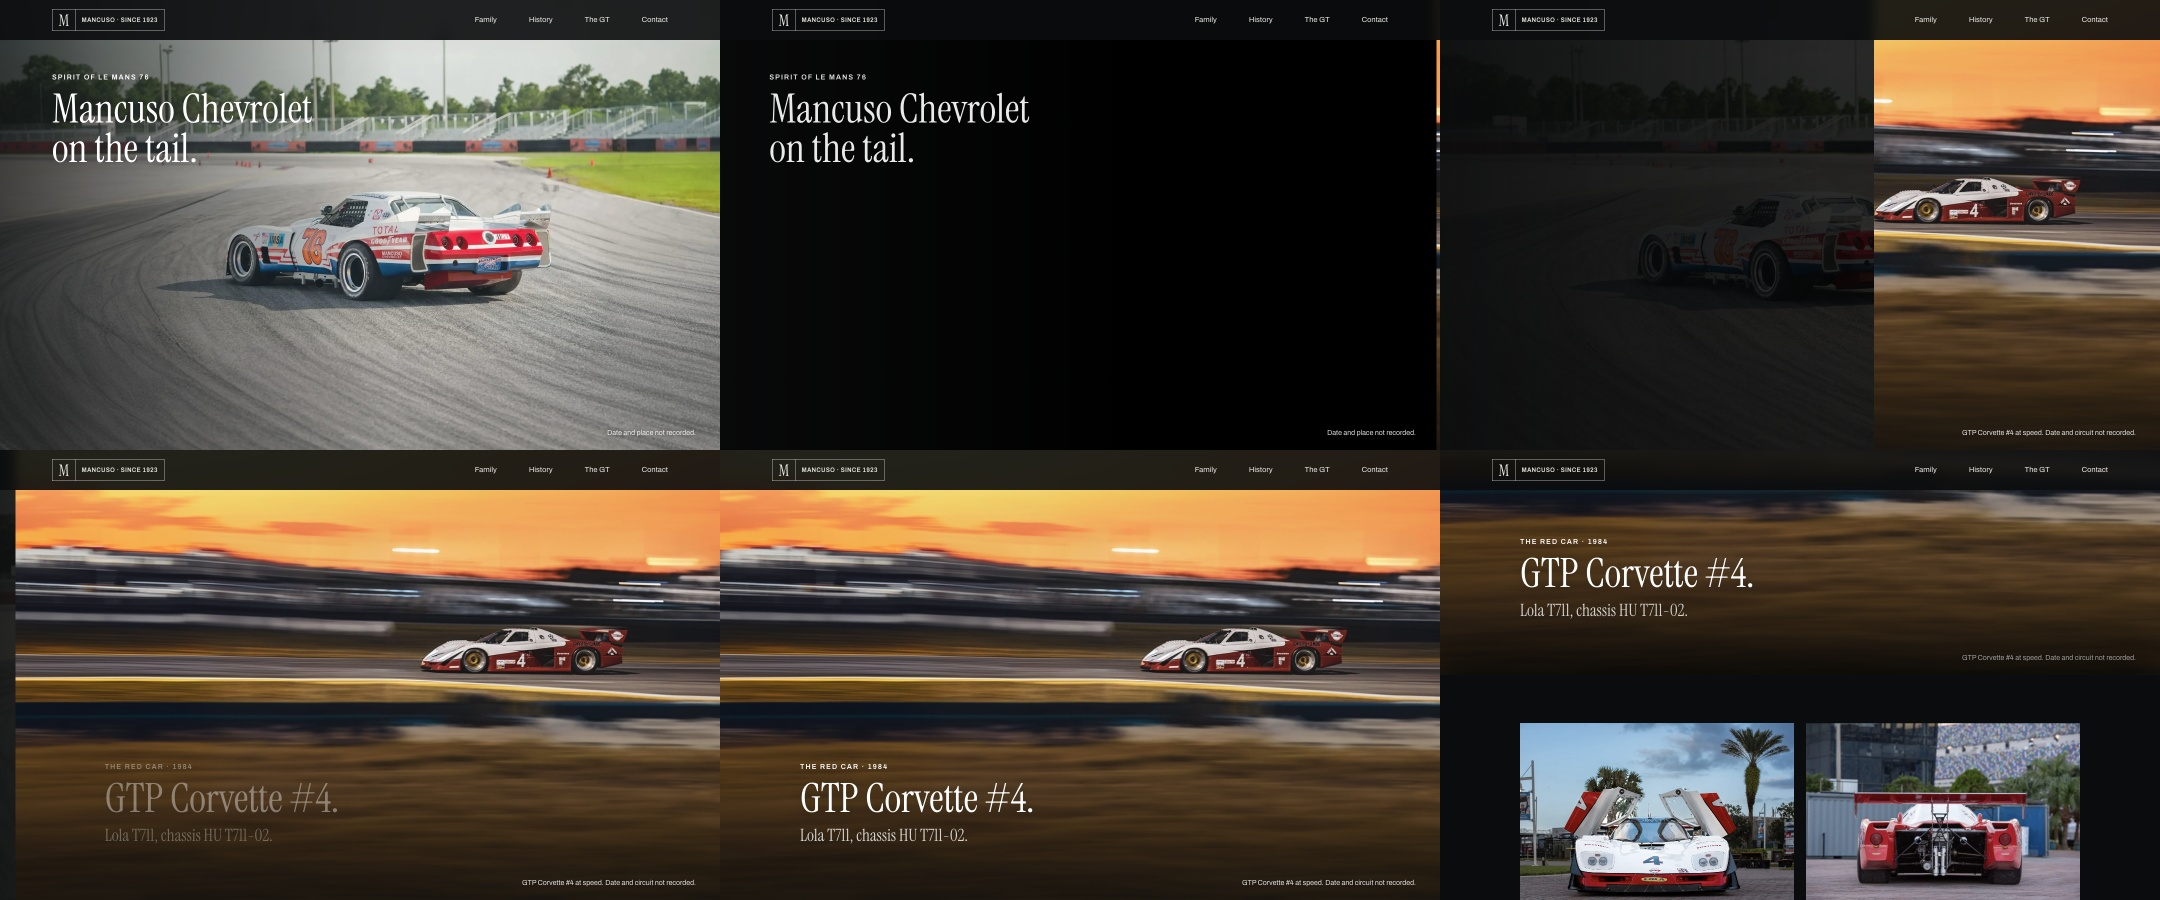
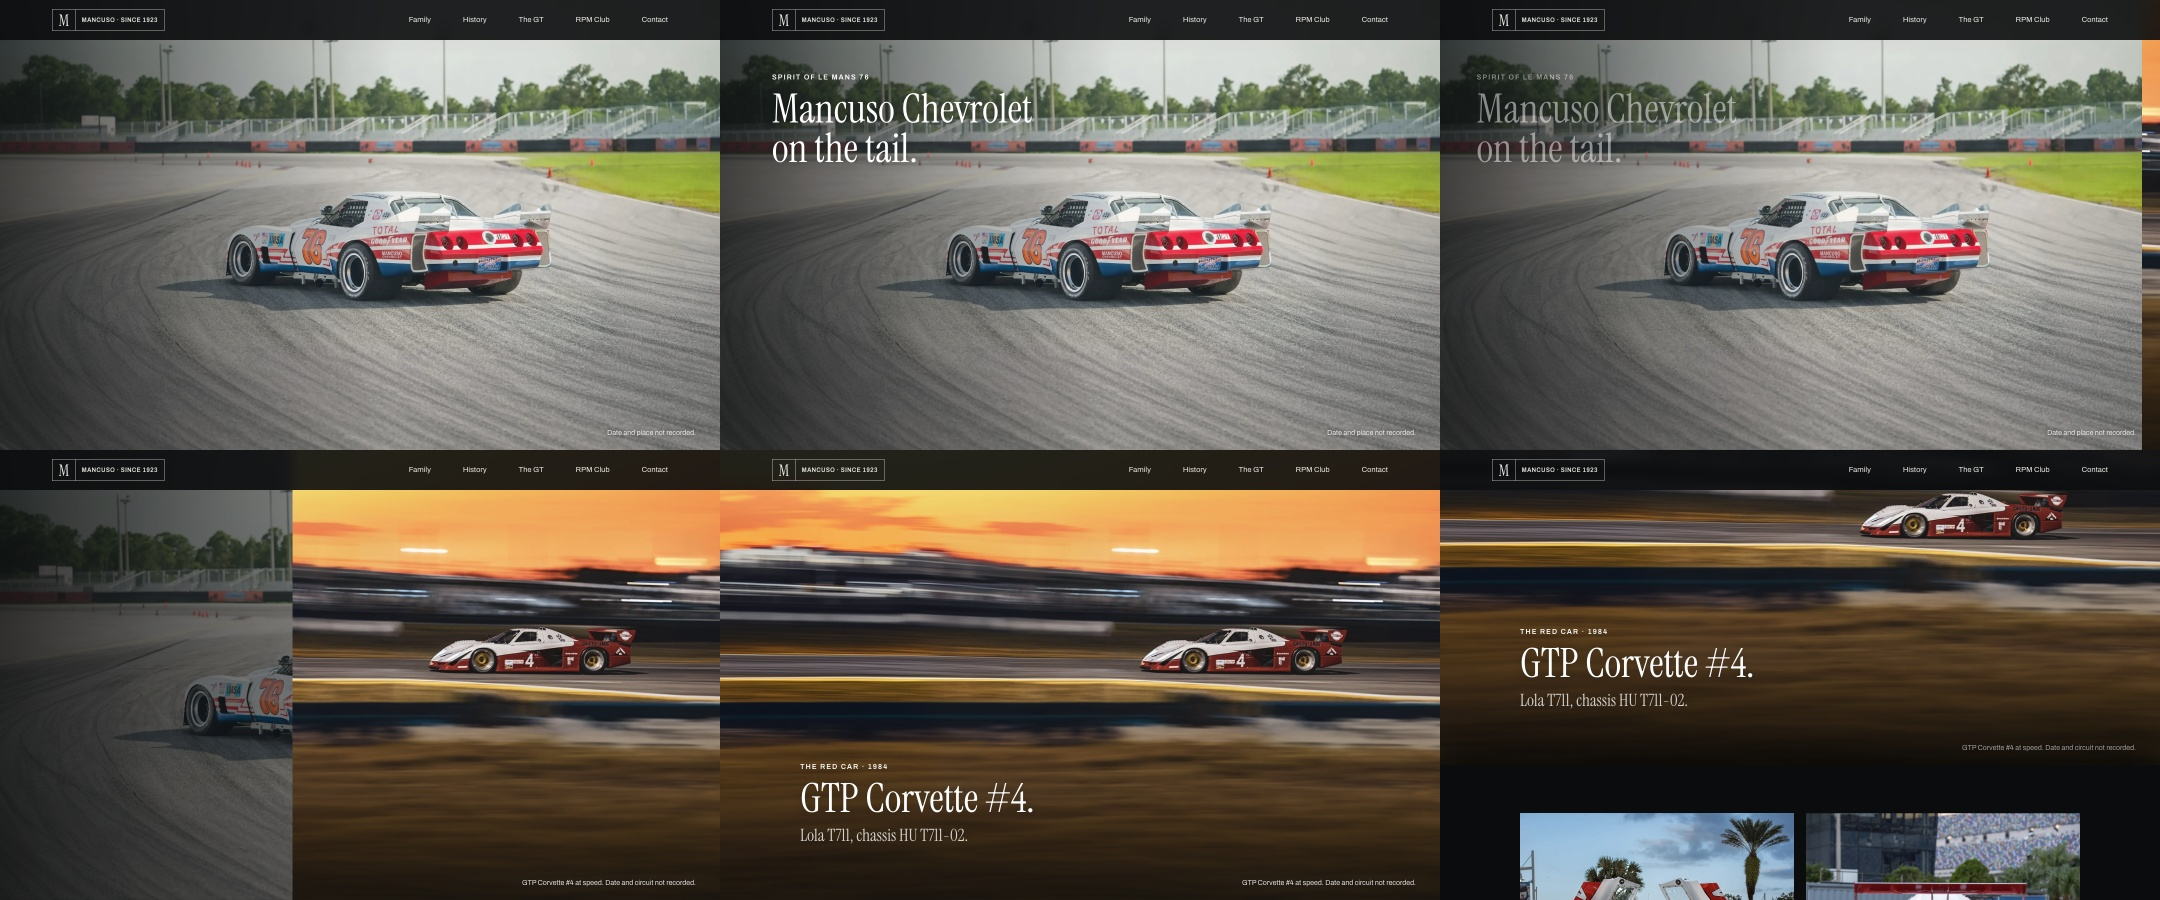
Final sketch: one entry rule for the Spirit and GTP titles; GTP photos and text narrower and centred; pin-stop titles (LFSC, Father and son) leave upward line by line

diff --git a/sketches/final/motion.js b/sketches/final/motion.js
@@ -74,9 +74,9 @@
        then the chapter text rides over it as one solid layer */
     qa('[data-pinstop]').forEach((fig) => {
       const text = q('.bleed__text', fig);
-      gsap.timeline({ scrollTrigger: { trigger: fig, start: 'top top', end: '+=55%', scrub: 0.6, refreshPriority: -1 } })
-        .fromTo(text, { y: 80, autoAlpha: 0 }, { y: 0, autoAlpha: 1, ease: 'power2.out', duration: 0.6 })
-        .to({}, { duration: 0.4 });
+      gsap.timeline({ scrollTrigger: { trigger: fig, start: 'top top', end: '+=60%', scrub: 0.6, refreshPriority: -1 } })
+        .fromTo(text, { y: 80, autoAlpha: 0 }, { y: 0, autoAlpha: 1, ease: 'power2.out', duration: 0.35 }, 0)
+        .to(text.children, { y: -70, autoAlpha: 0, ease: 'power2.in', duration: 0.3, stagger: 0.06 }, 0.55);   /* leaves upward, line by line */
     });
 
     /* the family: one pinned screen. No block slides over another: on each step the current panel's
@@ -123,15 +123,18 @@
     const swap = q('[data-swap]');
     if (swap) {
       const A = q('[data-swap-a]', swap), B = q('[data-swap-b]', swap);
+      /* one rule for both titles: each arrives from the right on its own frame, holds, then the frame changes */
+      const tIn = { x: 0, autoAlpha: 1, duration: 0.2, ease: 'power2.out' };
       gsap.timeline({ defaults: { ease: 'none' },
-        scrollTrigger: { trigger: swap, start: 'top top', end: '+=180%', pin: true, scrub: 0.6, anticipatePin: 1 } })
-        .to({}, { duration: 0.25 })
-        .to(q('.bleed__text', A), { x: -60, autoAlpha: 0, duration: 0.25, ease: 'power2.in' }, 0.25)
-        .fromTo(B, { clipPath: 'inset(0 0 0 100%)' }, { clipPath: 'inset(0 0 0 0%)', duration: 0.6, ease: 'power2.inOut' }, 0.3)
-        .fromTo(q('img', B), { xPercent: 12 }, { xPercent: 0, duration: 0.6, ease: 'power2.out' }, 0.3)
-        .fromTo(q('img', A), { xPercent: 0, filter: 'brightness(1)' }, { xPercent: -10, filter: 'brightness(0.45)', duration: 0.6, ease: 'power2.inOut' }, 0.3)
-        .fromTo(q('.bleed__text', B), { x: 80, autoAlpha: 0 }, { x: 0, autoAlpha: 1, duration: 0.3, ease: 'power2.out' }, 0.75)
-        .to({}, { duration: 0.25 });
+        scrollTrigger: { trigger: swap, start: 'top top', end: '+=200%', pin: true, scrub: 0.6, anticipatePin: 1 } })
+        .fromTo(q('.bleed__text', A), { x: 80, autoAlpha: 0 }, tIn, 0)
+        .to({}, { duration: 0.2 }, 0.2)
+        .to(q('.bleed__text', A), { x: -60, autoAlpha: 0, duration: 0.2, ease: 'power2.in' }, 0.4)
+        .fromTo(B, { clipPath: 'inset(0 0 0 100%)' }, { clipPath: 'inset(0 0 0 0%)', duration: 0.6, ease: 'power2.inOut' }, 0.45)
+        .fromTo(q('img', B), { xPercent: 12 }, { xPercent: 0, duration: 0.6, ease: 'power2.out' }, 0.45)
+        .fromTo(q('img', A), { xPercent: 0, filter: 'brightness(1)' }, { xPercent: -10, filter: 'brightness(0.45)', duration: 0.6, ease: 'power2.inOut' }, 0.45)
+        .fromTo(q('.bleed__text', B), { x: 80, autoAlpha: 0 }, tIn, 0.95)
+        .to({}, { duration: 0.25 }, 1.15);
     }
 
     /* the peak: the page is already blue; the #76 drives in from the right, its number slides the other way */

diff --git a/sketches/final/styles.css b/sketches/final/styles.css
@@ -396,7 +396,7 @@ h2.bleed__title { font-weight: 400; }
 .bleed--dusk::before { content: ""; position: absolute; inset: 0; z-index: 1; background: linear-gradient(0deg, rgba(11,12,13,.8) 0%, rgba(11,12,13,.25) 32%, rgba(11,12,13,0) 50%); }
 .bleed--dusk .bleed__text { left: calc(var(--gutter) + var(--col)); top: auto; bottom: 12vh; }
 .bleed--dusk .bleed__cap { color: rgba(255,255,255,.88); }
-.gtp__pair { display: grid; grid-template-columns: 1fr 1fr; gap: var(--s-5); padding: var(--s-8) calc(var(--gutter) + var(--col)) 0; }
+.gtp__pair { display: grid; grid-template-columns: repeat(2, minmax(0, 460px)); justify-content: center; gap: var(--s-5); padding: var(--s-8) var(--gutter) 0; }
 .gtp__pair img { width: 100%; aspect-ratio: 3 / 2; object-fit: cover; }
 
 .pin-gap { display: none; }
@@ -408,6 +408,11 @@ h2.bleed__title { font-weight: 400; }
   .ch-full__body { min-height: 100vh; align-content: center; align-items: center; box-shadow: 0 -40px 80px rgba(0,0,0,.55); }
   .gtp__pair { box-shadow: 0 -40px 80px rgba(0,0,0,.55); padding-top: var(--s-9); }
   .gtp .ch-full__body { min-height: 0; box-shadow: none; }
+}
+.gtp .ch-full__body { grid-template-columns: minmax(0, 560px) minmax(0, 340px); justify-content: center; column-gap: var(--s-6); }
+.gtp .ch-full__body > .body, .gtp .ch-full__aside { grid-column: auto; }
+.gtp .ch-full__body > .body { font-size: clamp(22px, 1.8vw, 28px); max-width: none; }
+@media (min-width: 1000px) {
 }
 
 .swap { position: relative; z-index: 2; }

diff --git a/sketches/final/index.html b/sketches/final/index.html
@@ -12,7 +12,7 @@
 <link rel="stylesheet" href="https://unpkg.com/lenis@1.3.26/dist/lenis.css">
 <link rel="preload" as="image" href="../../assets/img/hero-lemans-1976-2400.jpg" media="(min-width: 700px)">
 <link rel="preload" as="image" href="../../assets/img/hero-lemans-1976-mobile.jpg" media="(max-width: 699px)">
-<link rel="stylesheet" href="styles.css?v=57">
+<link rel="stylesheet" href="styles.css?v=58">
 <script>document.documentElement.classList.add('js');</script>
 </head>
 <body>
@@ -480,6 +480,6 @@ The car stays under its cover: no photograph of the GT has been released. -->
 <script src="https://cdnjs.cloudflare.com/ajax/libs/gsap/3.15.0/ScrollTrigger.min.js"></script>
 <script src="https://unpkg.com/lenis@1.3.26/dist/lenis.min.js"></script>
 <script src="form.js?v=1"></script>
-<script src="motion.js?v=37"></script>
+<script src="motion.js?v=39"></script>
 </body>
 </html>
